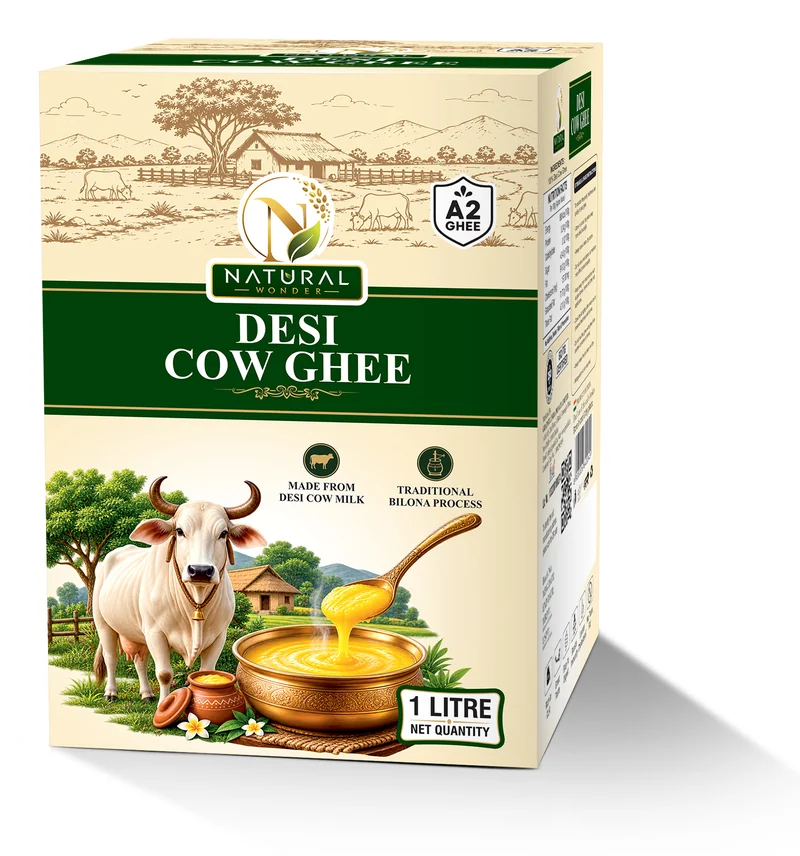
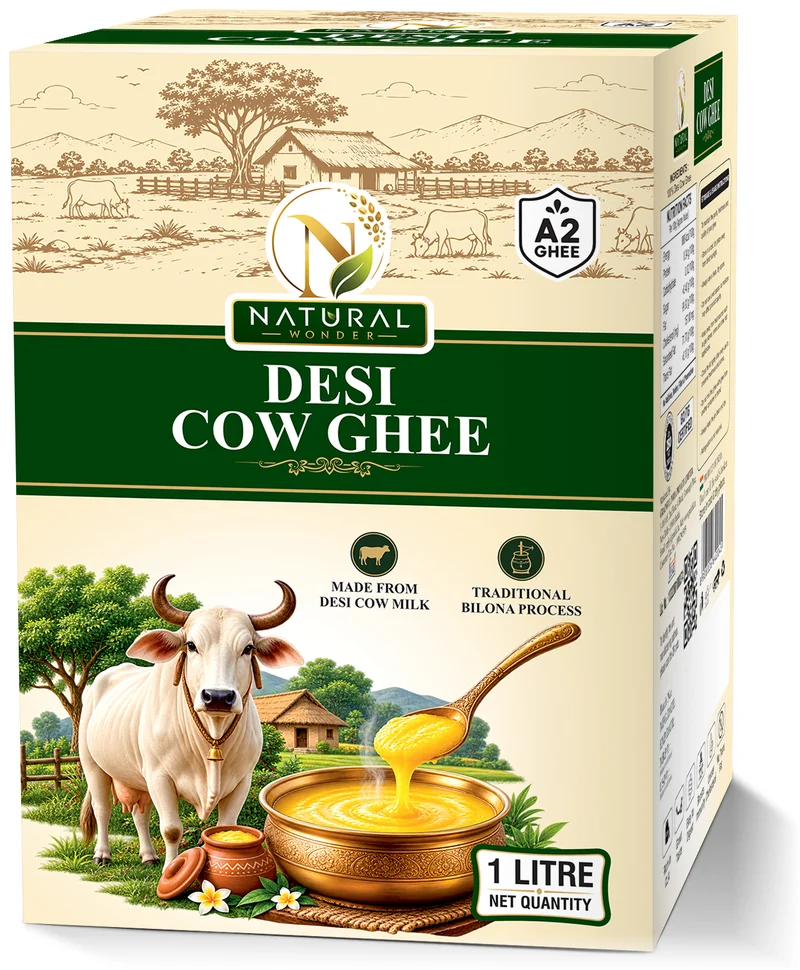
Our Products: the ghee pack fills its panel like the other photos
Cropped tight to the box (its cropped shadow faded into white) and shown at
the frame's full width with no inset, so the pack is as large as it can be
without cutting any of it.

diff --git a/our-products/index.html b/our-products/index.html
@@ -18,7 +18,7 @@
   <link rel="preload" as="font" type="font/woff2" href="../assets/fonts/Manrope-Variable.woff2" crossorigin>
   <link rel="preload" as="font" type="font/woff2" href="../assets/fonts/Newsreader-Variable.woff2" crossorigin>
   <link rel="preload" as="image" href="../assets/img/pages/products-hero.webp" imagesrcset="../assets/img/pages/products-hero-1200.webp 1200w, ../assets/img/pages/products-hero.webp 2560w" imagesizes="100vw">
-  <link rel="stylesheet" href="../assets/css/styles.css?v=2b1fdbed9a">
+  <link rel="stylesheet" href="../assets/css/styles.css?v=5dd94464c4">
 </head>
 <body>
   <a class="skip" href="#main">Skip to content</a>
@@ -149,7 +149,7 @@
              word — the tagline as the lead, the description, the four reasons as tiles, the closing line; then the two
              ghees and their sizes as printed on the packs (client's folder, 26 Oct 2026) and the way to the ghee page -->
         <article class="pg-range pg-range--green" data-reveal="rise">
-          <figure class="pg-range-img pg-range-img--pack"><img src="../assets/img/pages/range-ghee-pack.webp" srcset="../assets/img/pages/range-ghee-pack-800.webp 800w, ../assets/img/pages/range-ghee-pack.webp 1400w" sizes="(max-width: 860px) 100vw, 45vw" alt="Natural Wonder Desi Cow Ghee, 1 litre pack: A2 ghee made from desi cow milk by the traditional bilona process" width="1400" height="1497" loading="lazy"></figure>
+          <figure class="pg-range-img pg-range-img--pack"><img src="../assets/img/pages/range-ghee-pack.webp" srcset="../assets/img/pages/range-ghee-pack-800.webp 800w, ../assets/img/pages/range-ghee-pack.webp 1290w" sizes="(max-width: 860px) 100vw, 45vw" alt="Natural Wonder Desi Cow Ghee, 1 litre pack: A2 ghee made from desi cow milk by the traditional bilona process" width="1290" height="1564" loading="lazy"></figure>
           <div class="pg-range-txt">
             <div class="rv-mask"><p class="label" data-reveal="mask">Ghee</p></div>
             <div class="rv-mask"><h3 class="pg-range-h" data-reveal="mask">Natural Wonder – Pure Ghee</h3></div>

diff --git a/assets/css/styles.css b/assets/css/styles.css
@@ -1733,10 +1733,9 @@ h1, h2, h3, h4, .pr-name, .door-t, .next-t, .types-h a, .wy-big, .svp-big, .ftr-
 .pg-range-img img.pg-range-bowl { object-position: 72% 50%; }
 /* Our Products, ghee range (client's pack shot, 28 Oct 2026): a product on white, shown whole rather than cropped to fill */
 .pg-range-img--pack { background: #fff; }
-.pg-range-img--pack img { inset: 2rem; width: calc(100% - 4rem); height: calc(100% - 4rem); object-fit: contain; }
+.pg-range-img--pack img { inset: 0; width: 100%; height: 100%; object-fit: contain; } /* cropped tight to the box: it fills the frame's width, nothing of the pack cut */
 @media (max-width: 860px) {
   .pg-range-img.pg-range-img--pack { min-height: 24rem; aspect-ratio: auto; }
-  .pg-range-img--pack img { inset: 1rem; width: calc(100% - 2rem); height: calc(100% - 2rem); }
 }
 /* Our Products, Non-Basmati range (client photo, 28 Oct 2026): the sack and the spilled rice sit right of centre */
 .pg-range-img img.pg-range-sack { object-position: 64% 50%; }

diff --git a/about-us/index.html b/about-us/index.html
@@ -18,7 +18,7 @@
   <link rel="preload" as="font" type="font/woff2" href="../assets/fonts/Manrope-Variable.woff2" crossorigin>
   <link rel="preload" as="font" type="font/woff2" href="../assets/fonts/Newsreader-Variable.woff2" crossorigin>
   <link rel="preload" as="image" href="../assets/img/pages/about-hero.webp" imagesrcset="../assets/img/pages/about-hero-1200.webp 1200w, ../assets/img/pages/about-hero.webp 2560w" imagesizes="100vw">
-  <link rel="stylesheet" href="../assets/css/styles.css?v=2b1fdbed9a">
+  <link rel="stylesheet" href="../assets/css/styles.css?v=5dd94464c4">
 </head>
 <body>
   <a class="skip" href="#main">Skip to content</a>

diff --git a/natural-wonder-ghee/index.html b/natural-wonder-ghee/index.html
@@ -18,7 +18,7 @@
   <link rel="preload" as="font" type="font/woff2" href="../assets/fonts/Manrope-Variable.woff2" crossorigin>
   <link rel="preload" as="font" type="font/woff2" href="../assets/fonts/Newsreader-Variable.woff2" crossorigin>
   <link rel="preload" as="image" href="../assets/img/pages/ghee-hero.webp" imagesrcset="../assets/img/pages/ghee-hero-1200.webp 1200w, ../assets/img/pages/ghee-hero.webp 2560w" imagesizes="100vw">
-  <link rel="stylesheet" href="../assets/css/styles.css?v=2b1fdbed9a">
+  <link rel="stylesheet" href="../assets/css/styles.css?v=5dd94464c4">
 </head>
 <body>
   <a class="skip" href="#main">Skip to content</a>

diff --git a/index.html b/index.html
@@ -18,7 +18,7 @@
   <link rel="preload" as="font" type="font/woff2" href="assets/fonts/Manrope-Variable.woff2" crossorigin>
   <link rel="preload" as="font" type="font/woff2" href="assets/fonts/Newsreader-Variable.woff2" crossorigin>
   <link rel="preload" as="image" href="assets/img/hero-v3-1.webp" imagesrcset="assets/img/hero-v3-1-800.webp 800w, assets/img/hero-v3-1.webp 2560w" imagesizes="100vw">
-  <link rel="stylesheet" href="assets/css/styles.css?v=2b1fdbed9a">
+  <link rel="stylesheet" href="assets/css/styles.css?v=5dd94464c4">
 </head>
 <body>
   <a class="skip" href="#main">Skip to content</a>

diff --git a/contact-us/index.html b/contact-us/index.html
@@ -18,7 +18,7 @@
   <link rel="preload" as="font" type="font/woff2" href="../assets/fonts/Manrope-Variable.woff2" crossorigin>
   <link rel="preload" as="font" type="font/woff2" href="../assets/fonts/Newsreader-Variable.woff2" crossorigin>
   <link rel="preload" as="image" href="../assets/img/pages/page-banner.webp">
-  <link rel="stylesheet" href="../assets/css/styles.css?v=2b1fdbed9a">
+  <link rel="stylesheet" href="../assets/css/styles.css?v=5dd94464c4">
 </head>
 <body>
   <a class="skip" href="#main">Skip to content</a>

diff --git a/grainful-basmati-rice/index.html b/grainful-basmati-rice/index.html
@@ -18,7 +18,7 @@
   <link rel="preload" as="font" type="font/woff2" href="../assets/fonts/Manrope-Variable.woff2" crossorigin>
   <link rel="preload" as="font" type="font/woff2" href="../assets/fonts/Newsreader-Variable.woff2" crossorigin>
   <link rel="preload" as="image" href="../assets/img/pages/page-banner.webp">
-  <link rel="stylesheet" href="../assets/css/styles.css?v=2b1fdbed9a">
+  <link rel="stylesheet" href="../assets/css/styles.css?v=5dd94464c4">
 </head>
 <body>
   <a class="skip" href="#main">Skip to content</a>

diff --git a/grainful-non-basmati-rice/index.html b/grainful-non-basmati-rice/index.html
@@ -18,7 +18,7 @@
   <link rel="preload" as="font" type="font/woff2" href="../assets/fonts/Manrope-Variable.woff2" crossorigin>
   <link rel="preload" as="font" type="font/woff2" href="../assets/fonts/Newsreader-Variable.woff2" crossorigin>
   <link rel="preload" as="image" href="../assets/img/pages/page-banner.webp">
-  <link rel="stylesheet" href="../assets/css/styles.css?v=2b1fdbed9a">
+  <link rel="stylesheet" href="../assets/css/styles.css?v=5dd94464c4">
 </head>
 <body>
   <a class="skip" href="#main">Skip to content</a>

diff --git a/grainful-private-label/index.html b/grainful-private-label/index.html
@@ -18,7 +18,7 @@
   <link rel="preload" as="font" type="font/woff2" href="../assets/fonts/Manrope-Variable.woff2" crossorigin>
   <link rel="preload" as="font" type="font/woff2" href="../assets/fonts/Newsreader-Variable.woff2" crossorigin>
   <link rel="preload" as="image" href="../assets/img/pages/page-banner.webp">
-  <link rel="stylesheet" href="../assets/css/styles.css?v=2b1fdbed9a">
+  <link rel="stylesheet" href="../assets/css/styles.css?v=5dd94464c4">
 </head>
 <body>
   <a class="skip" href="#main">Skip to content</a>

diff --git a/grainful-white-label-packaging/index.html b/grainful-white-label-packaging/index.html
@@ -18,7 +18,7 @@
   <link rel="preload" as="font" type="font/woff2" href="../assets/fonts/Manrope-Variable.woff2" crossorigin>
   <link rel="preload" as="font" type="font/woff2" href="../assets/fonts/Newsreader-Variable.woff2" crossorigin>
   <link rel="preload" as="image" href="../assets/img/pages/page-banner.webp">
-  <link rel="stylesheet" href="../assets/css/styles.css?v=2b1fdbed9a">
+  <link rel="stylesheet" href="../assets/css/styles.css?v=5dd94464c4">
 </head>
 <body>
   <a class="skip" href="#main">Skip to content</a>

diff --git a/we-make-your-brand/index.html b/we-make-your-brand/index.html
@@ -18,7 +18,7 @@
   <link rel="preload" as="font" type="font/woff2" href="../assets/fonts/Manrope-Variable.woff2" crossorigin>
   <link rel="preload" as="font" type="font/woff2" href="../assets/fonts/Newsreader-Variable.woff2" crossorigin>
   <link rel="preload" as="image" href="../assets/img/pages/page-banner.webp">
-  <link rel="stylesheet" href="../assets/css/styles.css?v=2b1fdbed9a">
+  <link rel="stylesheet" href="../assets/css/styles.css?v=5dd94464c4">
 </head>
 <body>
   <a class="skip" href="#main">Skip to content</a>
